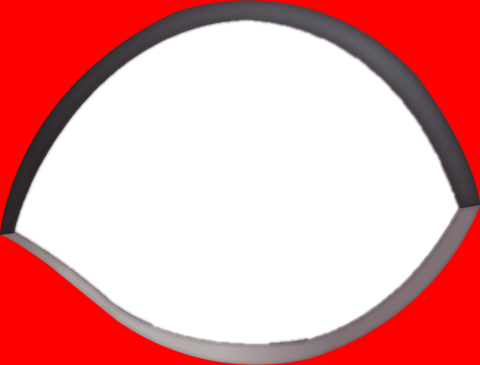
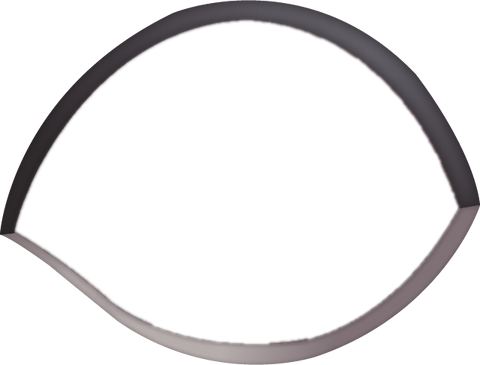
update

Changed region(s): [[0.0, 0.0, 1.0, 1.0], [0.5312, 0.0, 1.0, 0.5425]]

diff --git a/index.html b/index.html
@@ -14,47 +14,22 @@
       <!-- about me-->
       <section>
         <h1>Max Mainio Beidler</h1> 
-        <div class="event">
-          <h2>Max Mainio Beidler</h2> 
-          <h3>Max Mainio Beidler</h3> 
-          <h4>Max Mainio Beidler</h4> 
-          <h5>Max Mainio Beidler</h5> 
-          <h6>Max Mainio Beidler</h6> 
-        </div>
       </section>
 
-      <p class="desc">
-        My name is; as stated above, Max Mainio Beidler. I am a junior in Graphic design at the blahblahblahablahalblahlablhalblah...
-      </p>
-
-      <section>
-        <a href="https://randomtextgenerator.com/">
-          Random Text Generator
-        </a>
-
-        <p class="special">
-          "Add you viewing ten equally believe put. Separate families my on drawings do oh offended strictly elegance. Perceive jointure be mistress by jennings properly. An admiration at he discovered difficulty continuing. We in building removing possible suitable friendly on. Nay middleton him admitting consulted and behaviour son household. Recurred advanced he oh together entrance speedily suitable. Ready tried gay state fat could boy its among shall."
-        </p  class="special">
-
-        <p>
-          "Another journey chamber way yet females man. Way extensive and dejection get delivered deficient sincerity gentleman age. Too end instrument possession contrasted motionless. Calling offence six joy feeling. Coming merits and was talent enough far. Sir joy northward sportsmen education. Discovery incommode earnestly no he commanded if. Put still any about manor heard."
-        </p>
-      </section>
-      
       <!-- links to my work -->
       <div id="exercises">
-        <h3>Exercises</h3>
+        <h3>Exercises:</h3>
 
         <ul>
-          <li><a href="#">EX 1</a></li>
+          <li><a href="#">Exercise 1</a></li>
         </ul> 
       </div>
     
       <div id="projects">
-        <h3>Projects</h3>
+        <h3>Projects:</h3>
 
         <ul>
-          <li><a href="#">P1</a></li>
+          <li><a href="#">Project 1</a></li>
         </ul>
       </div>
 

diff --git a/css/style.css b/css/style.css
@@ -1,11 +1,12 @@
 body{
     margin: 24px;
     padding: 0;
-    background: red;
+    background: white;
 }
 
 .emoji-eye{
-    position: fixed;
+    position: absolute;
+    top: 50%;
     left: 50%;
     width: 240px;
     height: 182.5px;
